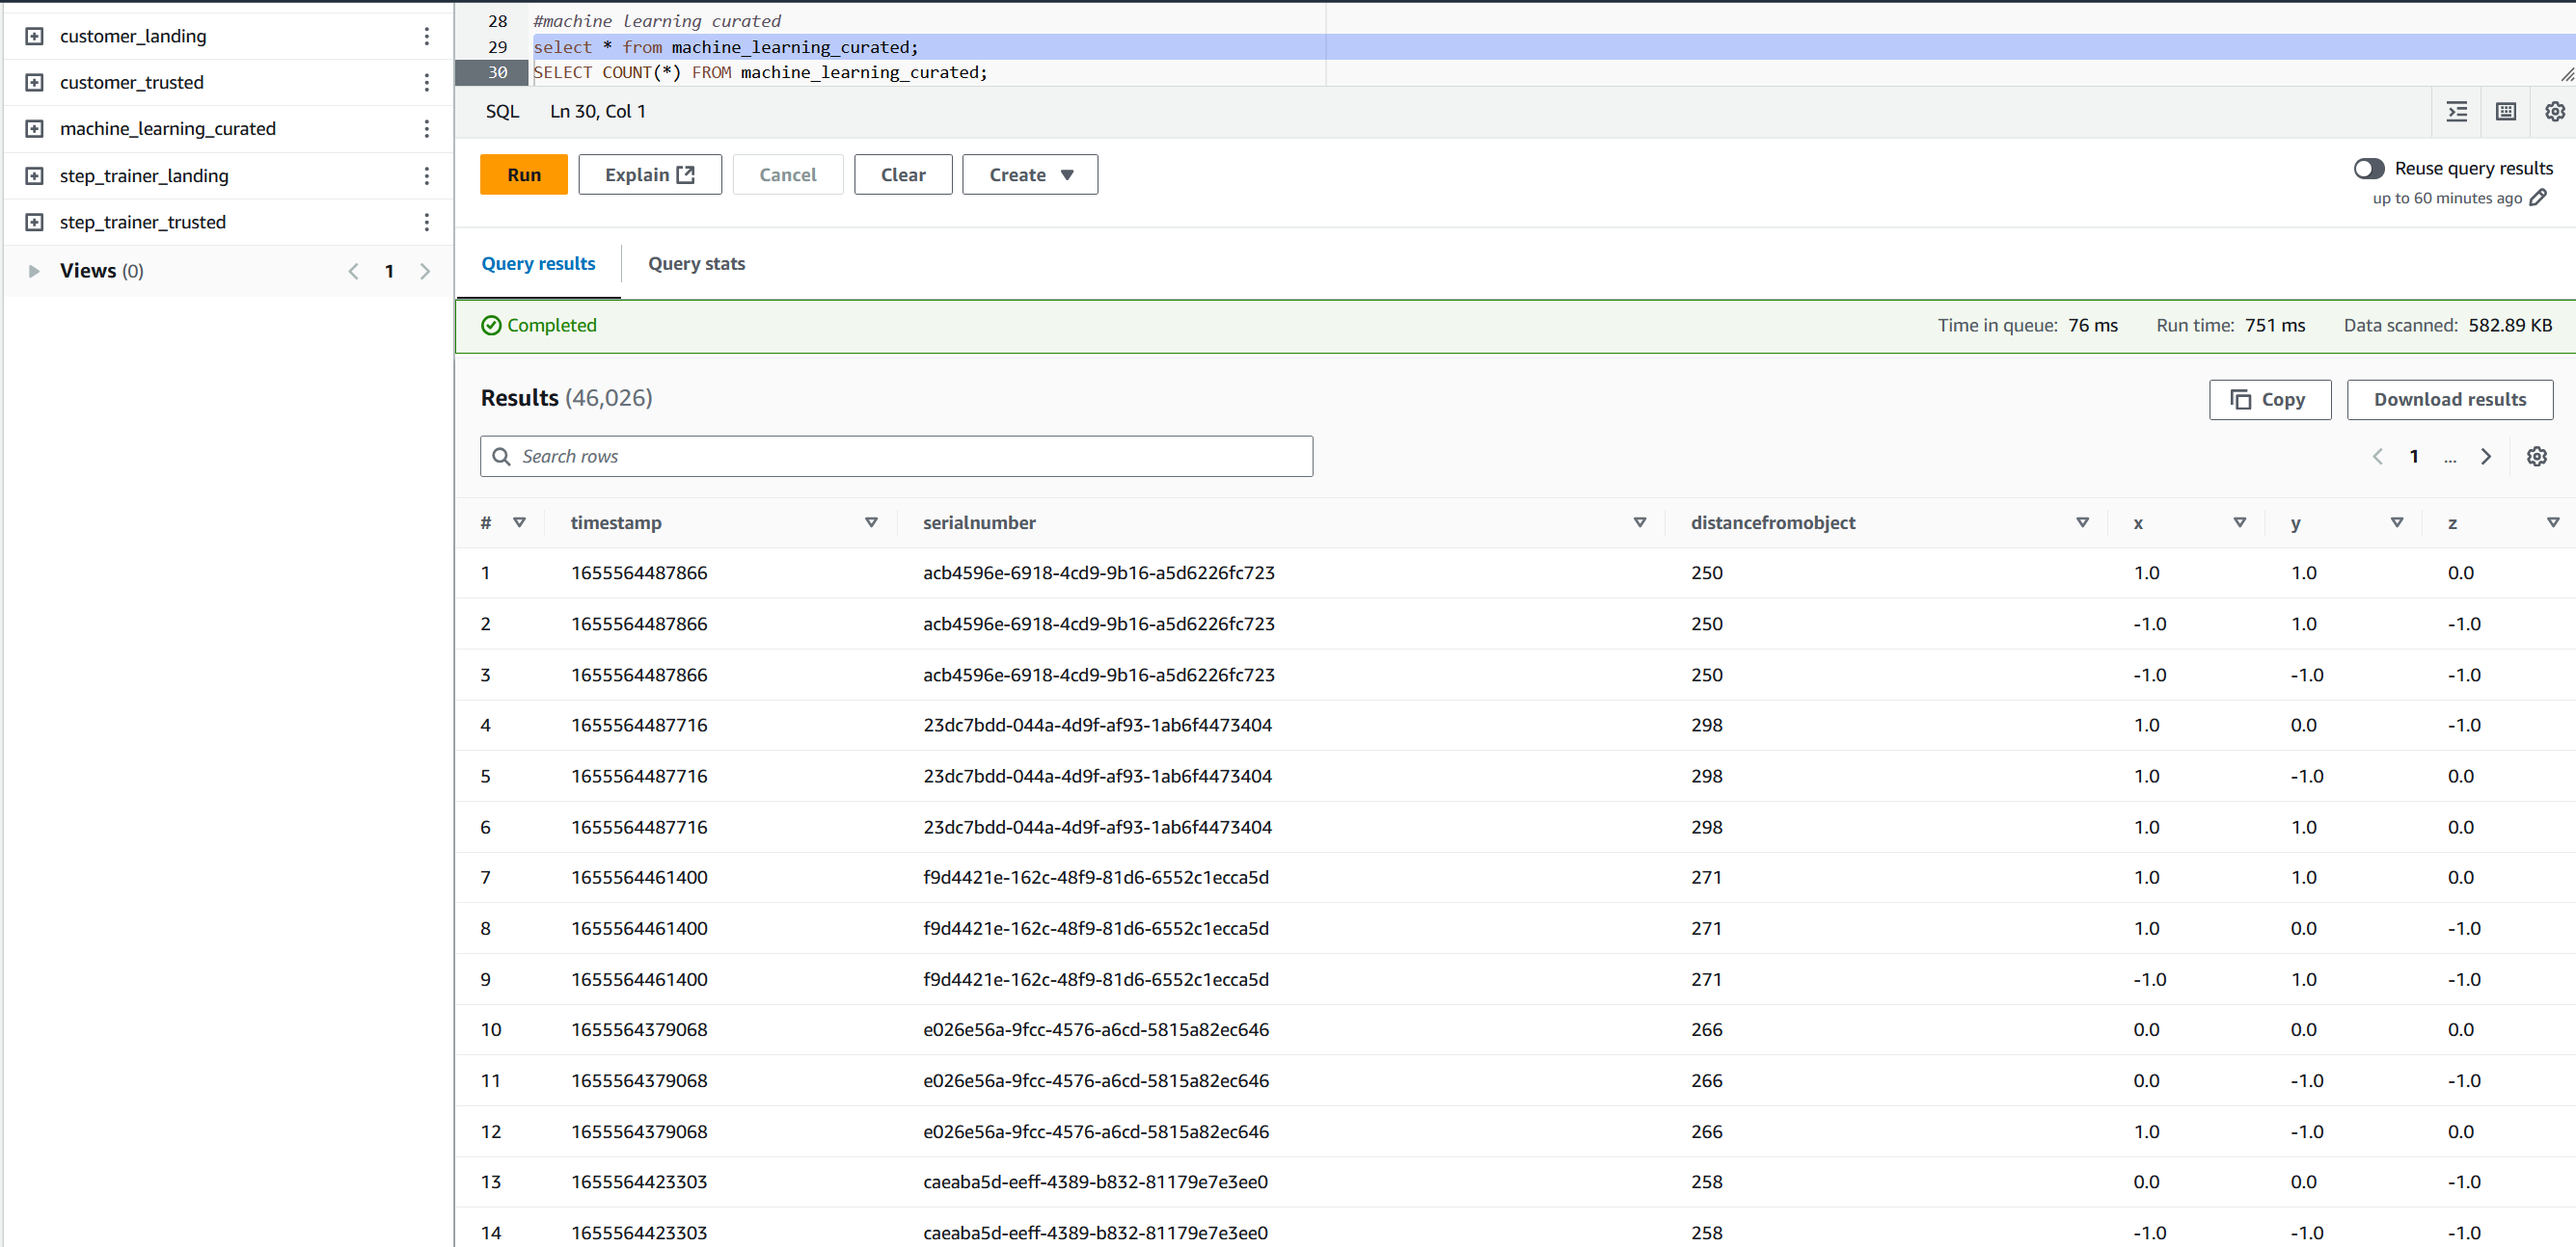
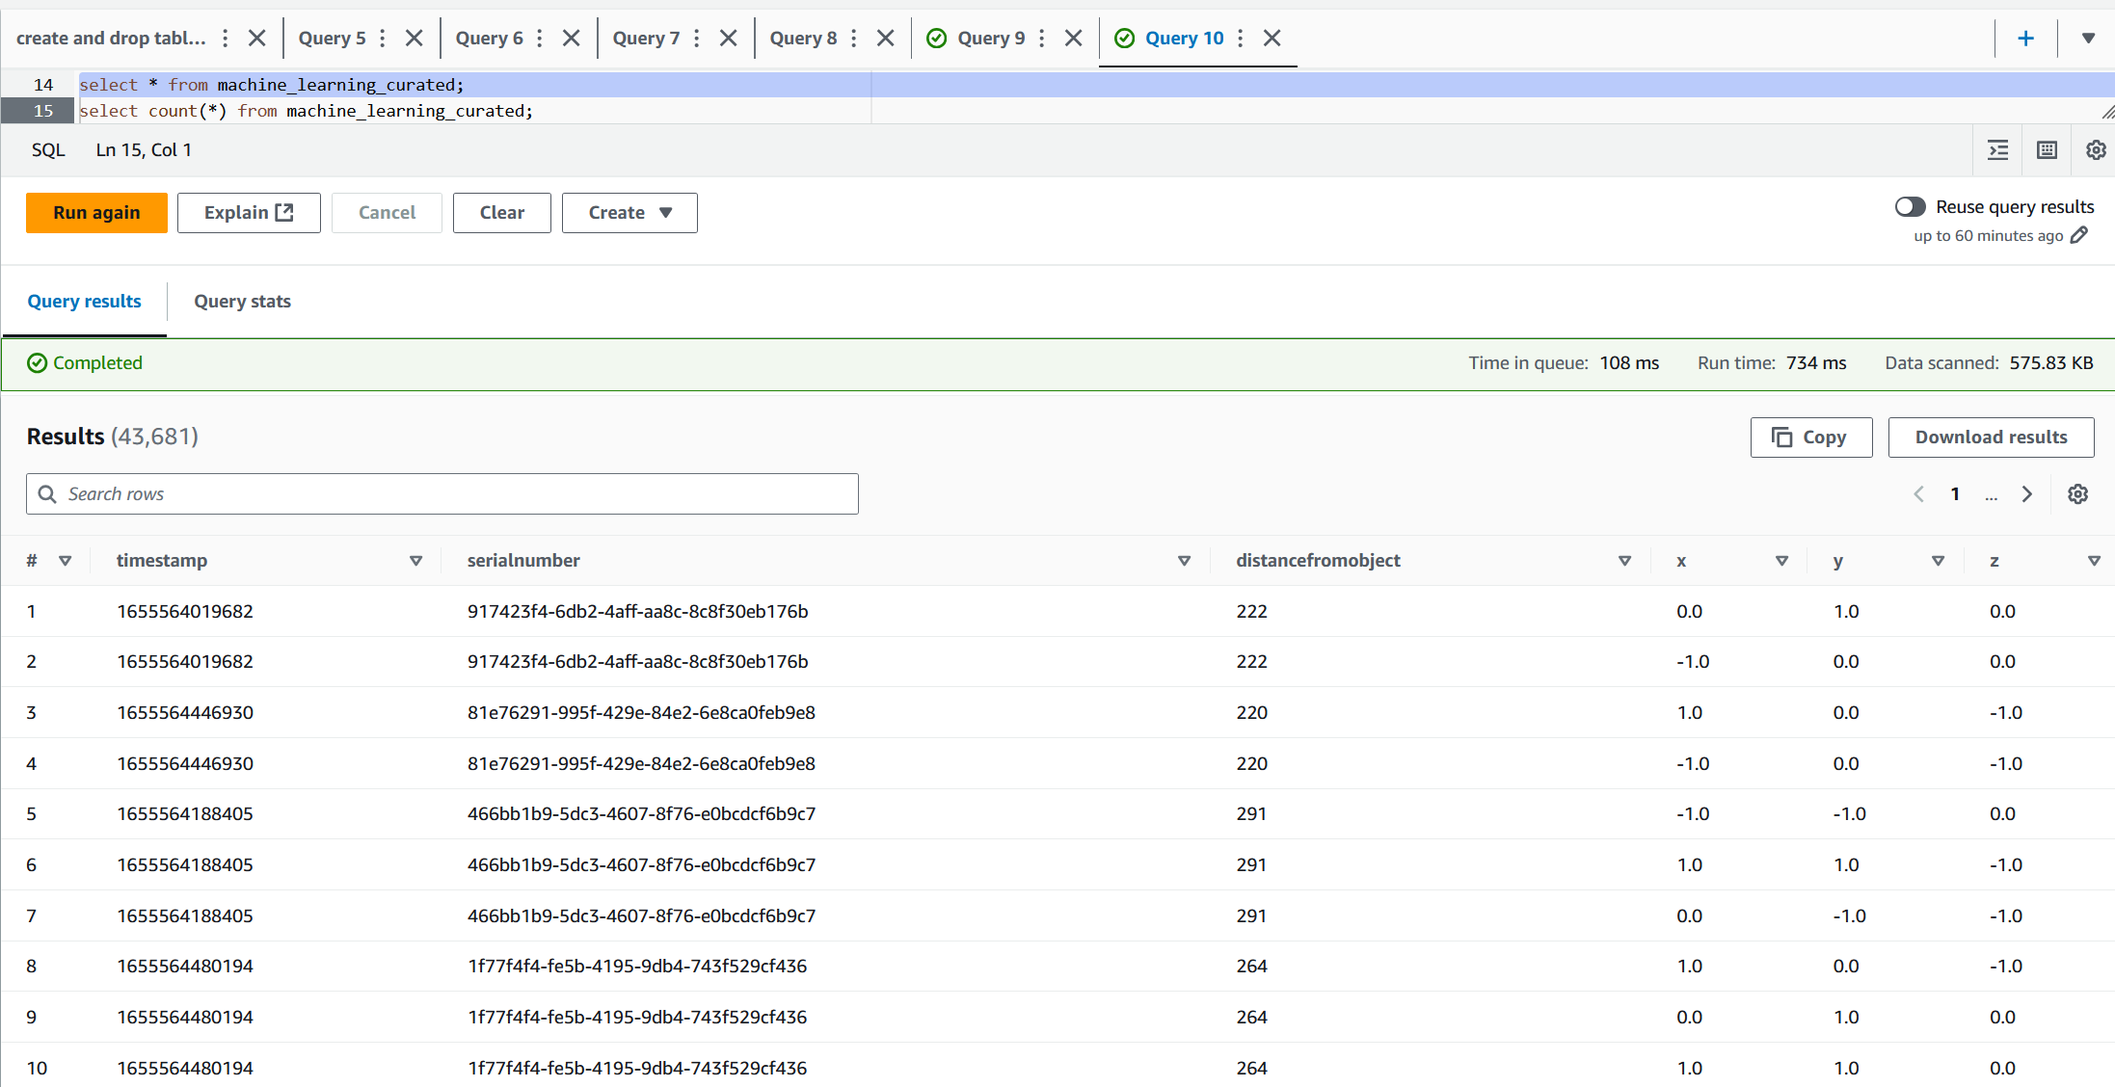
updating step_trainer_curated script to use customer_curated instead of customer_trusted data

diff --git a/4.Stedi_human_balance_analytics_project/pyscripts/machine_learning_curated.py b/4.Stedi_human_balance_analytics_project/pyscripts/machine_learning_curated.py
@@ -13,28 +13,44 @@ job = Job(glueContext)
 job.init(args['JOB_NAME'], args)
 
 # Script generated for node step_trainer_trusted_data
-step_trainer_trusted_data_node1730830315068 = glueContext.create_dynamic_frame.from_options(format_options={}, connection_type="s3", format="parquet", connection_options={"paths": ["s3://stedi-s3-bucket/step_trainer_trusted/"], "recurse": True}, transformation_ctx="step_trainer_trusted_data_node1730830315068")
+step_trainer_trusted_data_node1730830315068 = glueContext.create_dynamic_frame.from_options(
+    format_options={}, 
+    connection_type="s3", 
+    format="parquet", 
+    connection_options={"paths": ["s3://stedi-s3-bucket/step_trainer_trusted/"], "recurse": True}, 
+    transformation_ctx="step_trainer_trusted_data_node1730830315068"
+)
 
 # Script generated for node accelerometer_trusted_data
-accelerometer_trusted_data_node1730831025786 = glueContext.create_dynamic_frame.from_options(format_options={"multiLine": "false"}, connection_type="s3", format="json", connection_options={"paths": ["s3://stedi-s3-bucket/accelerometer_landing/"], "recurse": True}, transformation_ctx="accelerometer_trusted_data_node1730831025786")
+accelerometer_trusted_data_node1730831025786 = glueContext.create_dynamic_frame.from_options(
+    format_options={},  # Adjusted if needed
+    connection_type="s3", 
+    format="parquet",
+    connection_options={"paths": ["s3://stedi-s3-bucket/accelerometer_trusted/"], "recurse": True}, 
+    transformation_ctx="accelerometer_trusted_data_node1730831025786"
+)
 
-# Script generated for node customer_curated_data
-customer_curated_data_node1730913373500 = glueContext.create_dynamic_frame.from_options(format_options={}, connection_type="s3", format="parquet", connection_options={"paths": ["s3://stedi-s3-bucket/customer_curated/"], "recurse": True}, transformation_ctx="customer_curated_data_node1730913373500")
 
 # Script generated for node Join step_trainer and accelerometer data
-Joinstep_trainerandaccelerometerdata_node1730831631247 = Join.apply(frame1=accelerometer_trusted_data_node1730831025786, frame2=step_trainer_trusted_data_node1730830315068, keys1=["timestamp"], keys2=["sensorreadingtime"], transformation_ctx="Joinstep_trainerandaccelerometerdata_node1730831631247")
-
-# Script generated for node Renamed keys for join_cus_curated_step_accel
-Renamedkeysforjoin_cus_curated_step_accel_node1730917100842 = ApplyMapping.apply(frame=customer_curated_data_node1730913373500, mappings=[("serialnumber", "string", "right_serialnumber", "string"), ("z", "double", "right_z", "double"), ("birthday", "string", "right_birthday", "string"), ("sharewithpublicasofdate", "bigint", "sharewithpublicasofdate", "long"), ("sharewithresearchasofdate", "bigint", "sharewithresearchasofdate", "long"), ("registrationdate", "bigint", "registrationdate", "long"), ("customername", "string", "right_customername", "string"), ("user", "string", "right_user", "string"), ("y", "double", "right_y", "double"), ("sharewithfriendsasofdate", "bigint", "sharewithfriendsasofdate", "long"), ("x", "double", "right_x", "double"), ("timestamp", "bigint", "timestamp", "long"), ("email", "string", "right_email", "string"), ("lastupdatedate", "bigint", "lastupdatedate", "long"), ("phone", "string", "right_phone", "string")], transformation_ctx="Renamedkeysforjoin_cus_curated_step_accel_node1730917100842")
-
-# Script generated for node join_cus_curated_step_accel
-join_cus_curated_step_accel_node1730917025387 = Join.apply(frame1=Joinstep_trainerandaccelerometerdata_node1730831631247, frame2=Renamedkeysforjoin_cus_curated_step_accel_node1730917100842, keys1=["serialnumber"], keys2=["right_serialnumber"], transformation_ctx="join_cus_curated_step_accel_node1730917025387")
+Joinstep_trainerandaccelerometerdata_node1730831631247 = Join.apply(
+    frame1=accelerometer_trusted_data_node1730831025786, 
+    frame2=step_trainer_trusted_data_node1730830315068, 
+    keys1=["timestamp"], 
+    keys2=["sensorreadingtime"], 
+    transformation_ctx="Joinstep_trainerandaccelerometerdata_node1730831631247"
+)
 
 # Script generated for node Output_to_S3
-# Output_to_S3_node1730917182737 = glueContext.write_dynamic_frame.from_options(frame=join_cus_curated_step_accel_node1730917025387, connection_type="s3", format="glueparquet", connection_options={"path": "s3://stedi-s3-bucket/machine_learning_curated/", "partitionKeys": []}, format_options={"compression": "snappy"}, transformation_ctx="Output_to_S3_node1730917182737")
-Output_to_S3_node1730917182737 = glueContext.getSink(path="s3://stedi-s3-bucket/machine_learning_curated/", connection_type="s3", updateBehavior="UPDATE_IN_DATABASE", partitionKeys=[], enableUpdateCatalog=True, transformation_ctx="Output_to_S3_node1730917182737")
-Output_to_S3_node1730917182737.setCatalogInfo(catalogDatabase="stedi-database",catalogTableName="machine_learning_curated")
+Output_to_S3_node1730917182737 = glueContext.getSink(
+    path="s3://stedi-s3-bucket/machine_learning_curated/", 
+    connection_type="s3", 
+    updateBehavior="UPDATE_IN_DATABASE", 
+    partitionKeys=[], 
+    enableUpdateCatalog=True, 
+    transformation_ctx="Output_to_S3_node1730917182737"
+)
+Output_to_S3_node1730917182737.setCatalogInfo(catalogDatabase="stedi-database", catalogTableName="machine_learning_curated")
 Output_to_S3_node1730917182737.setFormat("glueparquet", compression="snappy")
-Output_to_S3_node1730917182737.writeFrame(join_cus_curated_step_accel_node1730917025387)
+Output_to_S3_node1730917182737.writeFrame(Joinstep_trainerandaccelerometerdata_node1730831631247)
 
 job.commit()

diff --git a/4.Stedi_human_balance_analytics_project/pyscripts/step_trainer_landing_to_trusted.py b/4.Stedi_human_balance_analytics_project/pyscripts/step_trainer_landing_to_trusted.py
@@ -7,7 +7,7 @@ from awsglue.job import Job
 from awsglue.dynamicframe import DynamicFrame
 from pyspark.sql.functions import col
 
-#intialize glue job
+# Initialize the Glue job
 args = getResolvedOptions(sys.argv, ['JOB_NAME'])
 sc = SparkContext()
 glueContext = GlueContext(sc)
@@ -15,24 +15,25 @@ spark = glueContext.spark_session
 job = Job(glueContext)
 job.init(args['JOB_NAME'], args)
 
-#load customer_trusted and step_trainer data into dynamic frames
-step_trainer_data = glueContext.create_dynamic_frame.from_catalog(database = 'stedi-database', table_name = 'step_trainer_landing')
-customer_trusted = glueContext.create_dynamic_frame.from_catalog(database = 'stedi-database', table_name = 'customer_trusted')
+# Load step_trainer and customer_curated data into dynamic frames
+step_trainer_data = glueContext.create_dynamic_frame.from_catalog(database='stedi-database', table_name='step_trainer_landing')
+customer_curated = glueContext.create_dynamic_frame.from_catalog(database='stedi-database', table_name='customer_curated')
 
-#Convert dynamic to dataframes
+# Convert dynamic frames to dataframes
 step_trainer_df = step_trainer_data.toDF()
-customer_trusted_df = customer_trusted.toDF()
+customer_curated_df = customer_curated.toDF()
 
+# Join step_trainer data with customer_curated data on serialnumber
 step_trainer_trusted_df = step_trainer_df.join(
-    customer_trusted_df,
-    step_trainer_df['serialnumber'] == customer_trusted_df['serialnumber']
-    ).select(
-        step_trainer_df['sensorreadingtime'],
-        step_trainer_df['serialnumber'],
-        step_trainer_df['distancefromobject']
+    customer_curated_df,
+    step_trainer_df['serialnumber'] == customer_curated_df['serialnumber']
+).select(
+    step_trainer_df['sensorreadingtime'],
+    step_trainer_df['serialnumber'],
+    step_trainer_df['distancefromobject']
 )
 
-#Convert dataframe to dynamicframe
+# Convert dataframe to dynamic frame
 step_trainer_trusted = DynamicFrame.fromDF(step_trainer_trusted_df, glueContext, 'step_trainer_trusted')
 
 # Write the result to S3 in Parquet format
@@ -40,7 +41,7 @@ glueContext.write_dynamic_frame.from_options(
     frame=step_trainer_trusted,
     connection_type="s3",
     connection_options={"path": "s3://stedi-s3-bucket/step_trainer_trusted/",
-                        "partitionKeys": [],  
+                        "partitionKeys": [],
                         "enableUpdateCatalog": True,
                         "updateBehavior": "UPDATE_IN_DATABASE"},
     format="parquet"
